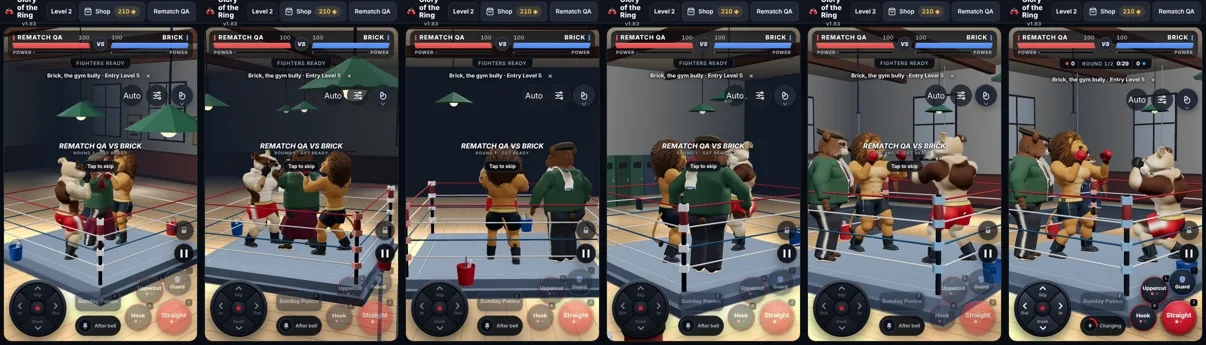
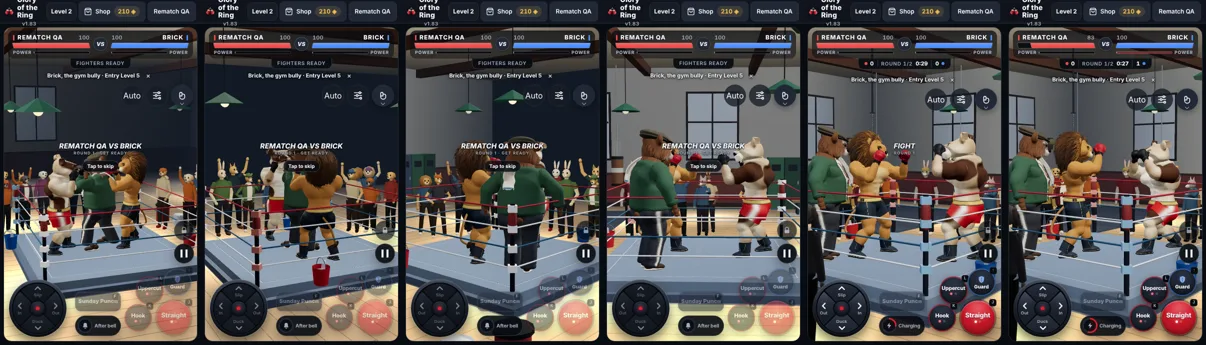
Rematch crowd: venue-crowd people round the gym ring instead of three story rigs (~1M triangles less); near side steps out of the camera
Claude-Session: https://claude.ai/code/session_012XYxhNGd6wn6U9MuUmHsfB

diff --git a/adventure/story/gym-fight.js b/adventure/story/gym-fight.js
@@ -6,38 +6,33 @@
  * fight-arena.js calls StoryGymFight.install(view) when the fight was started with { place: 'gym' } (e.fightOptions.place).
  * Ring mode (install(view, 'ring'), { place: 'gym_ring' }): the Chapter 1 rematch on fight night (docs/adventure/FILMS.md film 12).
  * The game's own ring stays (posts, ropes, canvas: the bout's corners and break work as in any ring); Bruno's Gym is built round
- * it without its practice ring, the room's floor at the foot of the ring platform; Bruno referees from inside the ropes; Mrs. Hazel,
- * Otto and Mack watch from ringside and cheer.
+ * it without its practice ring, the room's floor at the foot of the ring platform; Bruno referees from inside the ropes; the
+ * neighbourhood stands round the ring (venue-crowd people; Mrs. Hazel, Otto and Mack are seen in the Fight Night film).
  * Everything is undone when the view is disposed: the rhino referee goes back (and is disposed by the view as usual),
  * Bruno's cached rig is detached untouched, the gym set is disposed. */
 (() => {
   const V = (x = 0, y = 0, z = 0) => new THREE.Vector3(x, y, z);
   const CENTRE = [1.5, 2.0]; // where the mat lies in the gym set (dream-sets.js, 'dream_gym_floor'); the ring stands on the same spot
   const RING_FLOOR = -.31;    // the foot of the game's ring platform (fight-arena.js apron): the gym floor in ring mode
-  // the neighbours at ringside (arena coordinates, the ring at the origin), behind the ring as the bout's camera usually sees it
-  const WATCHERS = [{ id: 'hazel', x: -3.0, z: -3.4 }, { id: 'pip', x: .3, z: -4.2 }, { id: 'otto', x: 3.25, z: -3.2 }]; // outside the intro fly-around
+  // the neighbourhood round the ring: two loose rows of the venue-crowd people (arena-sets.js people(), ~1k triangles each), not story
+  // rigs (three full characters cost ~1M triangles a frame in the bout, 2026-11-22 measurement); clear of the corner stool in the gym
+  const CROWD = { inner: 3.45, rows: 2, step: .56, spacing: .62, thin: .3, seed: 23 };
   function install(view, mode = 'floor') {
     const e = view.engine, arena = view.arena, Cast = window.StoryCast, Pose = window.DreamPose, Sets = window.StorySets, ring = mode === 'ring';
     if (!Cast || !Pose || !Sets || view.gymFight) return false;
     const bruno = Cast.rig('bruno', e); if (!bruno) return false;
-    const rhino = view.referee, st = { set: null, gone: false, last: null, hidden: [], ring, watchers: [] };
+    const rhino = view.referee, st = { set: null, gone: false, last: null, hidden: [], ring, crowd: null };
     view.gymFight = st;
     rhino.root.visible = false;
     bruno.root.parent?.remove(bruno.root); bruno.root.scale.set(1, 1, 1); bruno.root.visible = true; view.cast.add(bruno.root); Pose.reset(bruno); // scale 1 inside the mirrored cast, like the fighters
     const hide = () => { if (view.ring && !ring) view.ring.visible = false; if (view.audience?.root) view.audience.root.visible = false; if (e.world?.arena) e.world.arena.visible = false; }; // the club arena's stands and seats too
-    // ring mode: the neighbours at ringside (StoryCast rigs, in the arena group, not the mirrored bout cast)
     // The club hall must stay hidden from the first frame (the bout's intro, a 360° fly-around, runs before the referee's first update,
     // and the world re-shows its arena every frame): while the gym fight lasts the hall and the stand crowd report themselves hidden.
-    // A neighbour standing between the camera and the ring steps out of the picture the same way (no one blocks the fight).
     const pinned = [], pin = (o, get) => { if (!o) return; Object.defineProperty(o, 'visible', { configurable: true, get, set() {} }); pinned.push(o); };
     pin(e.world?.arena, () => false); pin(view.audience?.root, () => false);
-    const cv = V(), wv = V(), blocks = c => { const cam = e.camera; if (!cam) return false; c.root.getWorldPosition(wv); wv.y += 1.3; view.cast.getWorldPosition(cv); cv.y += 1.2;
-      const toW = wv.sub(cam.position), toC = cv.sub(cam.position), dw = toW.length(), dc = toC.length(); return dw < dc && (dw < 2.2 || toW.angleTo(toC) < .38); };
-    if (ring) for (const w of WATCHERS) { const c = Cast.rig(w.id, e); if (!c || c === bruno) continue; c.root.parent?.remove(c.root); c.root.scale.set(-1, 1, 1); c.root.position.set(w.x, RING_FLOOR, w.z); c.root.rotation.set(0, Math.atan2(-w.x, -w.z), 0); arena.group.add(c.root); Pose.reset(c); pin(c.root, () => !st.gone && !blocks(c)); st.watchers.push({ c, w, seed: st.watchers.length * 1.7 }); }
-    const cheer = (time, dt) => { // they follow the fight and cheer now and then; after a knockdown or the result all arms go up
-      const m = view.match, big = m && (m.phase === 'count' || !!m.result);
-      for (const { c, w, seed } of st.watchers) { const k = (Math.sin(time * .9 + seed * 3.1) + 1) / 2, up = big || k > .82;
-        Pose.civil(c, { t: time, dt, dist: 0, arms: up ? (seed % 2 < 1 ? { L: 'fist', R: 'fist' } : { R: 'wave' }) : (w.id === 'otto' ? { L: 'hips', R: 'hips' } : {}), look: { yaw: .25 * Math.sin(time * .7 + seed), pitch: .18 }, talk: up ? 1 : 0, nod: 0 }); } };
+    if (ring && window.ArenaSets?.people) { st.crowd = window.ArenaSets.people({ ...CROWD, g: RING_FLOOR, lights: [{ x: 0, y: 4.2, z: 0, c: [1, .86, .66], power: 1.5, r: 6, wrap: .4 }], skip: (x, z) => Math.hypot(x + 2.8, z + 3.0) < .7 }); arena.group.add(st.crowd.group);
+      // the people between the camera and the ring step out of the picture, like the venue stands (arena-sets.js tick): per sector, from the first frame
+      const cam = V(), mid = V(); for (const s of st.crowd.sectors) pin(s.group, () => { if (st.gone || !e.camera) return true; view.cast.getWorldPosition(mid); cam.copy(e.camera.position).sub(mid).setY(0); const d = cam.length() || 1; return (s.x * cam.x + s.z * cam.z) / d < .12; }); }
     hide();
     const p = V();
     view.referee = {
@@ -45,7 +40,7 @@
       update(time, grip, side, o = {}) {
         hide();
         const dt = st.last != null && time > st.last ? Math.min(.05, time - st.last) : 0; st.last = time;
-        if (st.watchers.length) cheer(time, dt);
+        st.crowd?.sway(time);
         bruno.root.updateMatrixWorld(true);
         const state = { t: time, dt, dist: 0, arms: { L: 'hips', R: 'hips' }, look: null };
         if (o.lookAt) { p.copy(o.lookAt); bruno.root.worldToLocal(p); state.look = { yaw: Math.atan2(p.x, p.z), pitch: Math.atan2(p.y - 1.9, Math.hypot(p.x, p.z)) }; }
@@ -99,12 +94,12 @@
     view.dispose = function (...args) {
       st.gone = true; for (const o of pinned) { delete o.visible; o.visible = true; } view.referee = rhino; rhino.root.visible = true; if (e.world?.arena) e.world.arena.visible = e.world.mode === 'fight';
       bruno.root.parent?.remove(bruno.root); bruno.root.scale.set(-1, 1, 1); Pose.reset(bruno);
-      for (const { c } of st.watchers) { c.root.parent?.remove(c.root); c.root.scale.set(-1, 1, 1); c.root.position.set(0, 0, 0); c.root.rotation.set(0, 0, 0); Pose.reset(c); } st.watchers.length = 0;
+      try { st.crowd?.dispose(); } catch (x) { console.warn('gym fight', x); } st.crowd = null;
       for (const o of st.hidden) o.visible = true;
       try { st.set?.dispose(); } catch (x) { console.warn('gym fight', x); }
       view.gymFight = null; return dispose.apply(this, args);
     };
     return true;
   }
-  window.StoryGymFight = { install, CENTRE, RING_FLOOR, WATCHERS };
+  window.StoryGymFight = { install, CENTRE, RING_FLOOR, CROWD };
 })();

diff --git a/arena-sets.js b/arena-sets.js
@@ -726,6 +726,17 @@
  // Spectator prototypes for tests and QA: the parts of one person at a level of detail.
  const spectators=Object.freeze({species:Object.keys(SPECIES),outfits:Object.keys(OUTFIT),poses:{stand:Object.keys(POSES.stand),seat:Object.keys(POSES.seat)},levels:LOD.length,
   parts:({tier=2,species='lion',seated=false,pose,mirror=false,outfit='tee',legPose,hat=null}={})=>({body:bodyProto(tier,seated,pose||(seated?'knees':'idle'),mirror,outfit,legPose||(seated?'seat':'stand')),head:headProto(tier,species),hat:hat?hatProto(tier,hat,species):null})});
- const api=Object.freeze({ids:Object.freeze(Object.keys(builders)),has:id=>Object.prototype.hasOwnProperty.call(builders,id),build,spectators});
+ // A ring of standing spectators on its own, outside any venue (the Chapter 1 rematch in Bruno's Gym, adventure/story/gym-fight.js):
+ // the same people and detail levels as the venue crowds, lit by the given lamps (baked into the vertex colours like every set).
+ function people(o={}){
+  const k=new Kit();k.atlas=new Atlas(32,32);k.ambient=o.ambient||{sky:[.5,.44,.36],ground:[.22,.18,.14]};for(const l of o.lights||[])k.lights.push(l);
+  const style=o.style||{cloth:['#3d5a7a','#7a3b34','#4f6b4a','#8a7a4c','#3a3f4c','#6b4a6e','#9a5a2c','#2f3f4a','#b0a48c','#5a2f3a'].map(lin),fur:FUR,legs:DARK_LEGS,cheer:.34,wear:{tee:3.5,hoodie:3.5,jacket:3},caps:.25};
+  k.crowd({seed:o.seed||17,round:true,rows:o.rows||2,inner:o.inner||3.5,step:o.step||.56,spacing:o.spacing||.6,rise:0,g:o.g||0,style,thin:o.thin??.25,skip:o.skip});
+  const made=k.finish('people');k.atlas.paint({lang:'en',title:''});made.group.name='Spectators';
+  const crowd=made.sectors.flatMap(s=>s.crowd);
+  return {group:made.group,sectors:made.sectors,triangles:made.triangles,people:made.people,sway(t){crowd.forEach((m,j)=>{m.position.y=.014*Math.sin(t*2.3+j*2.4);});},
+   dispose(){made.group.parent?.remove(made.group);for(const g of made.geometries)g.dispose();for(const m of Object.values(made.materials))m.dispose();k.atlas.texture.dispose();}};
+ }
+ const api=Object.freeze({ids:Object.freeze(Object.keys(builders)),has:id=>Object.prototype.hasOwnProperty.call(builders,id),build,spectators,people});
  if(typeof module!=='undefined')module.exports=api;else window.ArenaSets=api;
 })();

diff --git a/index.html b/index.html
@@ -39,7 +39,7 @@
   <script src="./fight-iq.js?v=2026110801"></script>
   <script src="./game-accessories.js?v=2026111111"></script>
   <script src="./game-venues.js?v=2026111401"></script>
-  <script src="./arena-sets.js?v=2026112181"></script>
+  <script src="./arena-sets.js?v=2026112290"></script>
   <script src="./ringless-venues.js?v=2026111401"></script>
   <script src="./game-tournament.js?v=2026111112"></script>
   <script src="./academy-lesson.js?v=2026111011"></script>
@@ -122,7 +122,7 @@
   <script src="./adventure/story/docks-sets.js?v=2026112180" defer></script>
   <script src="./adventure/story/street-life.js?v=2026111406" defer></script>
   <script src="./adventure/story/dream-scenes.js?v=2026112287" defer></script>
-  <script src="./adventure/story/gym-fight.js?v=2026112289" defer></script>
+  <script src="./adventure/story/gym-fight.js?v=2026112291" defer></script>
   <script src="./adventure/story/mop-core.js?v=20261121mop2" defer></script>
   <script src="./adventure/story/mop-game.js?v=20261121mop2" defer></script>
   <script src="./adventure/story-flow.js?v=2026112183" defer></script>
